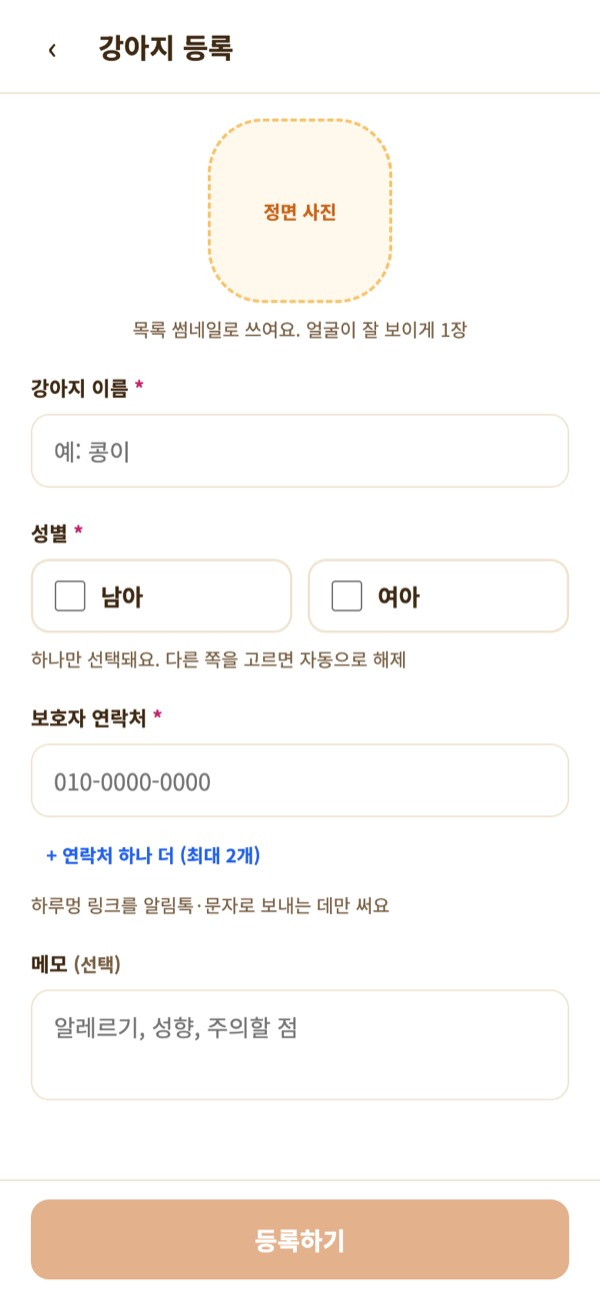
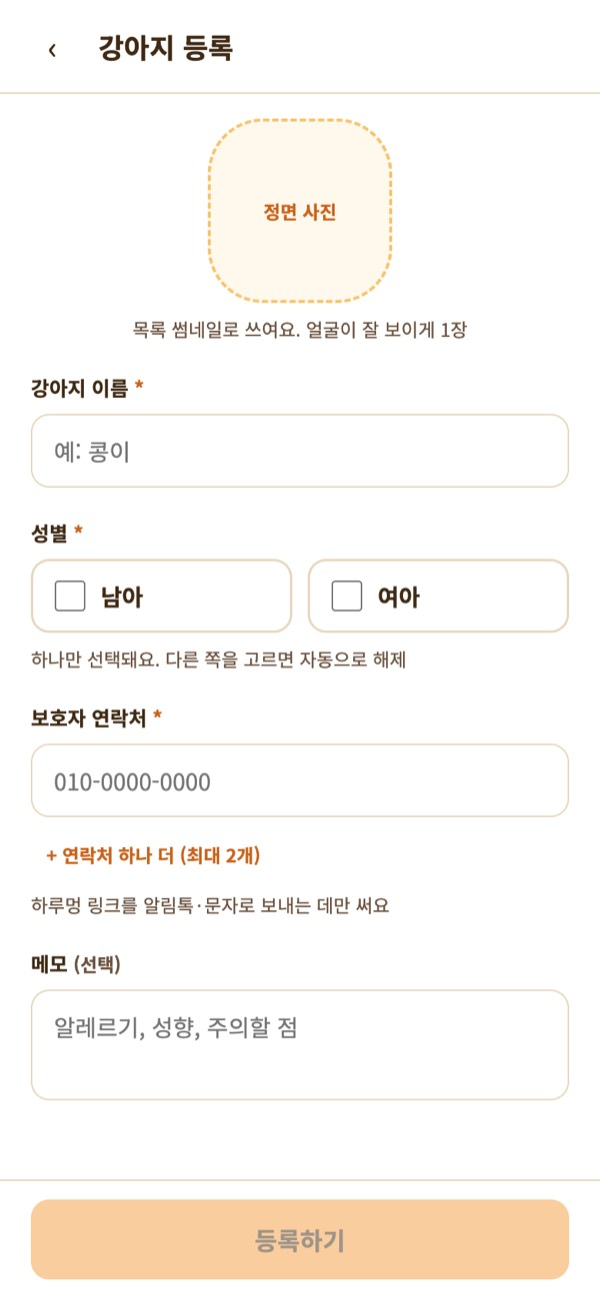
팔레트 정리: 버튼은 아이콘 주황+브라운 글자, 성별 색은 성별만(채도 완화), 상태는 주황/완료 브라운회색/위험 빨강으로 분리, 카드 테두리·보조 글자 대비 보강. 사용 안내 색 표현·그림 12장 갱신

Changed region(s): [[0.03, 0.9245, 0.96, 0.9861], [0.09, 0.6471, 0.45, 0.678]]

diff --git a/web/src/screens/Guide.tsx b/web/src/screens/Guide.tsx
@@ -59,7 +59,7 @@ export function GuideScreen() {
             ['아이폰', <>사파리 아래 가운데 공유 버튼(네모에 화살표) → 아래로 내려 <b>홈 화면에 추가</b> → 오른쪽 위 <b>추가</b></>],
             ['안드로이드', <>크롬 오른쪽 위 ⋮ 메뉴 → <b>홈 화면에 추가</b> 또는 <b>앱 설치</b></>],
           ]} />
-          <p>설치하면 홈 화면에 민트색 하루멍 아이콘이 생기고, 열면 주소창 없이 앱처럼 떠요. 아이폰은 사파리와 홈 화면 앱의 저장소가 따로라서, <b>설치한 뒤 앱 아이콘으로 열어서</b> 강아지를 등록하세요. 설치 전 사파리에서 넣은 내용은 앱으로 넘어오지 않아요. 앱에서 "유치원 코드가 없어요"가 보이면 설정에서 링크의 코드를 한 번 넣어 주세요.</p>
+          <p>설치하면 홈 화면에 노란 바탕의 강아지 아이콘이 생기고, 열면 주소창 없이 앱처럼 떠요. 아이폰은 사파리와 홈 화면 앱의 저장소가 따로라서, <b>설치한 뒤 앱 아이콘으로 열어서</b> 강아지를 등록하세요. 설치 전 사파리에서 넣은 내용은 앱으로 넘어오지 않아요. 앱에서 "유치원 코드가 없어요"가 보이면 설정에서 링크의 코드를 한 번 넣어 주세요.</p>
           <p><b>첫 화면은 오늘 폴더입니다.</b> 위에서부터 이렇게 읽으세요.</p>
           <ul>
             <li>촬영 · 미지정 · 미발송: 오늘 찍은 수, 강아지를 안 정한 사진 수, 안 보낸 사진이 있는 강아지 수</li>
@@ -91,7 +91,7 @@ export function GuideScreen() {
           <p>아침에 오늘 온 아이만 체크하면 카메라와 폴더에 그 아이들만 보입니다. 25마리 중 8마리만 왔으면 카메라에서 8마리만 고르면 돼요.</p>
           <ol>
             <li>오늘 폴더에서 <b>오늘 등원 체크</b> 카드를 누릅니다.</li>
-            <li>온 아이를 탭합니다. 탭하는 즉시 저장되고 민트 체크가 붙어요. 위 검색창으로 찾아도 됩니다.</li>
+            <li>온 아이를 탭합니다. 탭하는 즉시 저장되고 주황 체크가 붙어요. 위 검색창으로 찾아도 됩니다.</li>
             <li>아래 촬영 시작 (N마리) 버튼으로 바로 카메라로 가거나 <b>완료</b>로 돌아갑니다.</li>
           </ol>
           <Shot src="02-attendance" alt="등원 체크 화면" />
@@ -122,12 +122,12 @@ export function GuideScreen() {
 
         <Section id="session" title="5. 촬영 검수">
           <p>카메라에서 ✕를 누르면 방금 찍은 사진이 강아지별로 모여 떠요. 여기서 지울 것을 골라내고 저장해야 폴더에 들어갑니다. 평소엔 30초면 끝나요.</p>
-          <p><b>삭제 탭(기본).</b> 지울 사진만 탭하세요. 분홍 ✕가 붙고, 나머지는 전부 저장돼요. 강아지 한 번에 다 지우려면 줄 오른쪽 <b>전체 삭제</b>, 실수했으면 위 <b>전체 가져가기</b>. 사진을 길게 누르면 크게 보여요.</p>
+          <p><b>삭제 탭(기본).</b> 지울 사진만 탭하세요. 빨간 ✕가 붙고, 나머지는 전부 저장돼요. 강아지 한 번에 다 지우려면 줄 오른쪽 <b>전체 삭제</b>, 실수했으면 위 <b>전체 가져가기</b>. 사진을 길게 누르면 크게 보여요.</p>
           <Shot src="08-session-review" alt="촬영 검수 삭제 탭" />
-          <p><b>배정 탭.</b> 미지정 사진이 있으면 배정 탭에 분홍 숫자가 떠요.</p>
+          <p><b>배정 탭.</b> 미지정 사진이 있으면 배정 탭에 주황 숫자가 떠요.</p>
           <ol>
             <li>위 강아지 줄에서 한 마리를 고릅니다.</li>
-            <li>그 아이 사진을 탭합니다. 민트 테두리와 체크가 붙고, 사진 아래 이름이 바뀝니다. 다시 탭하면 떨어져요.</li>
+            <li>그 아이 사진을 탭합니다. 주황 테두리와 체크가 붙고, 사진 아래 이름이 바뀝니다. 다시 탭하면 떨어져요.</li>
             <li>다른 강아지를 고르고 같은 사진을 탭하면 둘 다 붙어요. 합사 사진은 이렇게.</li>
             <li><b>미지정만 N장</b>으로 미지정만 모아 보고, <b>미지정 전부 → 코코</b>로 한 번에 채울 수 있어요.</li>
           </ol>
@@ -148,9 +148,9 @@ export function GuideScreen() {
           <p>저장은 <b>덮어쓰기</b> 또는 <b>복사본으로 저장</b>. 영상 자르기는 영상 길이만큼 걸려요(10초 영상 = 10초). 그동안 화면을 끄지 마세요.</p>
           <Shot src="13-photo-editor" alt="사진 편집 화면" />
           <p><b>옮기기·삭제.</b> 오른쪽 위 <b>선택</b>을 누르면 체크 모드가 돼요. 사진을 고르고 아래 <b>옮기기·추가</b>로 다른 아이를 더하거나(여러 마리 체크 가능) 이 폴더에서 빼고, <b>삭제</b>로 지워요. 바로 반영됩니다.</p>
-          <p><b>미지정 사진.</b> 오늘 폴더의 분홍 카드를 누르면 강아지를 안 정한 사진이 모여 있어요. 골라서 <b>강아지 배정</b> → 여러 마리 체크 → <b>N마리에게 배정</b>. 안 쓸 사진은 삭제.</p>
+          <p><b>미지정 사진.</b> 오늘 폴더의 주황 테두리 "미지정 사진" 카드를 누르면 강아지를 안 정한 사진이 모여 있어요. 골라서 <b>강아지 배정</b> → 여러 마리 체크 → <b>N마리에게 배정</b>. 안 쓸 사진은 삭제.</p>
           <p><b>보낸 표시.</b> 보호자에게 보낸 사진에는 "1회 보냄"처럼 몇 번째 발송에 나갔는지 표시가 붙고, 폴더 위에 그날 발송 이력이 한 줄로 떠요.</p>
-          <p><b>검수 완료.</b> 폴더 맨 아래 <b>검수 완료</b>를 누르면 오늘 폴더로 돌아가고, 그 아이 이름 옆에 민트 체크가 붙어요. 그날 사진을 다 봤다는 표시이고, 보내기의 조건은 아니에요. 그 뒤에 사진이 더 들어오면 체크가 자동으로 풀려요. 다시 손보려면 <b>검수 다시 열기</b>.</p>
+          <p><b>검수 완료.</b> 폴더 맨 아래 <b>검수 완료</b>를 누르면 오늘 폴더로 돌아가고, 그 아이 이름 옆에 주황 체크가 붙어요. 그날 사진을 다 봤다는 표시이고, 보내기의 조건은 아니에요. 그 뒤에 사진이 더 들어오면 체크가 자동으로 풀려요. 다시 손보려면 <b>검수 다시 열기</b>.</p>
           <p><b>지난 날짜.</b> 폴더 위 날짜 줄의 ‹ ›로 어제, 그제 사진도 같은 방식으로 볼 수 있어요. 보내기 화면도 날짜를 옮길 수 있어서 어제 못 보낸 사진을 오늘 보낼 수 있습니다.</p>
         </Section>
 
@@ -189,7 +189,7 @@ export function GuideScreen() {
           <Shot src="19-settings" alt="설정 화면" />
           <p>안 보낸 사진과 미지정 사진은 절대 지우지 않아요. <b>보낸 사진 원본 지금 정리</b>로 바로 비울 수도 있고, 몇 개를 지워 얼마가 비는지 확인창에 떠요.</p>
           <p><b>삭제 기록 비우기.</b> 촬영 검수나 폴더에서 지운 사진의 빈 기록이 남아 있으면 이 버튼으로 완전히 지워요. 용량과는 거의 무관하고 목록 정리용이에요.</p>
-          <p><b>홈 화면 설치.</b> 설치 여부와 폰별 설치 순서가 떠요. 미설치면 분홍 경고가 보여요. 아래 <b>보호 요청</b>은 브라우저가 저장소를 임의로 지우지 않게 요청하는 버튼인데, 안드로이드 크롬에서만 동작하고 아이폰은 홈 화면 설치가 그 역할을 해요.</p>
+          <p><b>홈 화면 설치.</b> 설치 여부와 폰별 설치 순서가 떠요. 미설치면 빨간 경고가 보여요. 아래 <b>보호 요청</b>은 브라우저가 저장소를 임의로 지우지 않게 요청하는 버튼인데, 안드로이드 크롬에서만 동작하고 아이폰은 홈 화면 설치가 그 역할을 해요.</p>
           <p><b>유치원 코드.</b> 앱 정보에 있는 입력칸이에요. 받은 링크로 열었으면 자동으로 들어가 있고, 비어 있으면 링크의 <b>u=</b> 뒤 값을 넣고 <b>저장</b>. 어느 유치원에서 쓰는지 구분하는 용도라 한 번만 넣으면 돼요.</p>
           <p><b>전체 초기화</b>는 테스트 폰에서만 쓰세요. 강아지·사진·기록이 전부 지워지고 되돌릴 수 없어요.</p>
         </Section>

diff --git a/web/src/styles.css b/web/src/styles.css
@@ -3,19 +3,27 @@
 :root {
   --white: #ffffff;
   --surface: #fff8ec;
-  --line: #efe3cf;
+  --line: #e6d6bc;
   --text: #3f2a14;
-  --text-2: #7a6247;
+  --text-2: #6b5340;
+  /* 브랜드: 아이콘 주황(버튼 바탕, 브라운 글자) / 진한 주황(링크·작은 강조) / 허니(선택·슬라이더) / 크림 오렌지(연한 배경) */
+  --brand: #f39a3c;
   --mint: #c9641b;
   --mint-mid: #f6c46b;
   --mint-light: #ffe9cc;
-  --blue: #2563eb;
-  --blue-dark: #1d4ed8;
-  --blue-mid: #93c5fd;
-  --blue-light: #dbeafe;
-  --pink: #c2256d;
-  --pink-mid: #f9a8d4;
-  --pink-light: #fce7f3;
+  /* 상태: 완료(브라운 회색) / 위험(빨강). 진행은 브랜드 주황. */
+  --done: #8c7a64;
+  --done-light: #f0e9dd;
+  --danger: #d64545;
+  --danger-light: #fde8e8;
+  /* 성별만 쓴다. 상태·경고엔 쓰지 않는다. */
+  --blue: #4a7fc1;
+  --blue-dark: #3b6aa6;
+  --blue-mid: #9dbce4;
+  --blue-light: #e4eef9;
+  --pink: #d96a8a;
+  --pink-mid: #f1b3c3;
+  --pink-light: #fce9ee;
   --gray: #f6efe3;
   --overlay: rgba(63, 42, 20, 0.55);
   --r-card: 16px;
@@ -35,7 +43,7 @@ body {
 }
 button, input, textarea { font-family: inherit; font-size: inherit; color: inherit; }
 button { cursor: pointer; }
-a { color: var(--blue); text-decoration: none; }
+a { color: var(--mint); text-decoration: none; }
 
 /* 레이아웃 */
 .screen { min-height: 100%; display: flex; flex-direction: column; background: var(--white); }
@@ -56,8 +64,8 @@ a { color: var(--blue); text-decoration: none; }
 
 /* 구성 요소 */
 .btn {
-  min-height: 52px; border-radius: var(--r-control); border: 1.5px solid var(--mint);
-  background: var(--mint); color: var(--white); font-size: 16px; font-weight: 700;
+  min-height: 52px; border-radius: var(--r-control); border: 1.5px solid var(--brand);
+  background: var(--brand); color: var(--text); font-size: 16px; font-weight: 700;
   display: inline-flex; align-items: center; justify-content: center; gap: 8px; padding: 0 20px; width: 100%;
 }
 .btn:disabled { opacity: 0.5; cursor: default; }
@@ -69,7 +77,7 @@ a { color: var(--blue); text-decoration: none; }
   display: inline-flex; align-items: center; justify-content: center; font-size: 20px; color: var(--text);
 }
 .icon-btn--mint { background: var(--mint-light); color: var(--mint); border-radius: 14px; font-weight: 700; }
-.card { background: var(--white); border-radius: var(--r-card); border: 1px solid var(--line); padding: 14px; }
+.card { background: var(--white); border-radius: var(--r-card); border: 1px solid var(--line); padding: 14px; box-shadow: 0 1px 2px rgba(63, 42, 20, 0.04); }
 .card--on { border-color: var(--mint); background: var(--mint-light); }
 .check {
   width: 28px; height: 28px; border-radius: 14px; border: 2px solid var(--line); background: var(--white);
@@ -84,6 +92,9 @@ a { color: var(--blue); text-decoration: none; }
 }
 .badge--blue { background: var(--blue-light); color: var(--blue-dark); }
 .badge--pink { background: var(--pink-light); color: var(--pink); }
+.badge--orange { background: var(--mint-light); color: var(--mint); }
+.badge--done { background: var(--done-light); color: var(--done); }
+.badge--danger { background: var(--danger-light); color: var(--danger); }
 .badge--mint { background: var(--mint-light); color: var(--mint); }
 .badge--gray { background: var(--gray); color: var(--text-2); }
 .avatar {
@@ -101,7 +112,7 @@ a { color: var(--blue); text-decoration: none; }
 }
 textarea.input { height: 72px; padding: 12px 14px; resize: none; }
 .label { font-size: 13px; font-weight: 700; }
-.required { color: var(--pink); }
+.required { color: var(--mint); }
 .field { display: flex; flex-direction: column; gap: 8px; }
 .stats { display: grid; grid-template-columns: repeat(3, minmax(0, 1fr)); gap: 10px; }
 .stat { padding: 12px; border-radius: 14px; display: flex; flex-direction: column; gap: 2px; }
@@ -113,7 +124,7 @@ a.stat { color: inherit; }
   position: relative; aspect-ratio: 1; border-radius: 10px; overflow: hidden; background: var(--line); border: 0; padding: 0;
 }
 .cell img, .cell video { width: 100%; height: 100%; object-fit: cover; display: block; }
-.cell--deleted { opacity: 0.6; outline: 2px solid var(--pink); outline-offset: -2px; }
+.cell--deleted { opacity: 0.6; outline: 2px solid var(--danger); outline-offset: -2px; }
 .cell__dur {
   position: absolute; left: 4px; bottom: 4px; background: rgba(17, 24, 39, 0.7); color: var(--white);
   font-size: 10px; font-weight: 700; border-radius: 6px; padding: 1px 5px;
@@ -129,10 +140,10 @@ a.stat { color: inherit; }
   position: absolute; left: 0; right: 0; bottom: 0; padding: 2px 4px; font-size: 10px; font-weight: 700; color: var(--white);
   background: linear-gradient(transparent, rgba(17, 24, 39, 0.75)); text-align: left; white-space: nowrap; overflow: hidden; text-overflow: ellipsis;
 }
-.cell__names--none { color: var(--pink-mid); }
+.cell__names--none { color: var(--mint-mid); }
 .cell__del {
   position: absolute; right: 4px; top: 4px; width: 22px; height: 22px; border-radius: 11px;
-  background: var(--pink); color: var(--white); display: flex; align-items: center; justify-content: center; font-size: 11px; font-weight: 700;
+  background: var(--danger); color: var(--white); display: flex; align-items: center; justify-content: center; font-size: 11px; font-weight: 700;
 }
 .sexbox {
   flex: 1; height: 48px; border-radius: var(--r-control); border: 1.5px solid var(--line); background: var(--white);
@@ -188,7 +199,7 @@ a.stat { color: inherit; }
 .cam__rec-time { font-variant-numeric: tabular-nums; font-size: 18px; }
 .cam__rec-max { font-size: 12px; color: #d1d5db; font-weight: 500; }
 .cam__rec-bar { width: 64px; height: 4px; border-radius: 2px; background: rgba(255, 255, 255, 0.25); overflow: hidden; }
-.cam__rec-bar span { display: block; height: 100%; background: var(--pink-mid); transition: width 200ms linear; }
+.cam__rec-bar span { display: block; height: 100%; background: #ef4444; transition: width 200ms linear; }
 
 /* 하단 패널 */
 .cam__bottom {
@@ -285,7 +296,7 @@ a.stat { color: inherit; }
 .viewer__nav--l { left: 6px; }
 .viewer__nav--r { right: 6px; }
 .cell__ring { position: absolute; right: 4px; top: 4px; width: 22px; height: 22px; border-radius: 11px; border: 2px solid rgba(255, 255, 255, 0.9); background: rgba(0, 0, 0, 0.25); }
-.cell__tag--sent { background: var(--mint); }
+.cell__tag--sent { background: var(--done); }
 .history { display: flex; flex-direction: column; gap: 6px; padding: 8px 10px; border-radius: 12px; background: var(--surface); }
 .history__head { display: flex; align-items: center; gap: 8px; font-size: 13px; }
 .cell__tag { position: absolute; left: 4px; top: 4px; background: rgba(17, 24, 39, 0.7); color: var(--white); font-size: 10px; font-weight: 700; border-radius: 6px; padding: 1px 5px; }
@@ -335,7 +346,7 @@ a.stat { color: inherit; }
 .seg { display: flex; height: 36px; padding: 3px; border-radius: 18px; background: var(--gray); gap: 2px; }
 .seg button { border: 0; background: transparent; color: var(--text-2); font-size: 13px; font-weight: 700; padding: 0 12px; border-radius: 15px; display: inline-flex; align-items: center; gap: 4px; }
 .seg button.on { background: var(--white); color: var(--text); box-shadow: 0 1px 2px rgba(0, 0, 0, 0.08); }
-.seg__dot { min-width: 18px; height: 18px; padding: 0 5px; border-radius: 9px; background: var(--pink); color: var(--white); font-size: 11px; display: inline-flex; align-items: center; justify-content: center; }
+.seg__dot { min-width: 18px; height: 18px; padding: 0 5px; border-radius: 9px; background: var(--brand); color: var(--text); font-size: 11px; display: inline-flex; align-items: center; justify-content: center; }
 .assign-head { position: sticky; top: 56px; z-index: 4; background: var(--white); border-bottom: 1px solid var(--line); padding: 10px 0; display: flex; flex-direction: column; gap: 10px; }
 .dogstrip { display: flex; gap: 12px; padding: 0 20px; overflow-x: auto; scrollbar-width: none; }
 .dogstrip::-webkit-scrollbar { display: none; }

diff --git a/web/src/screens/FolderReview.tsx b/web/src/screens/FolderReview.tsx
@@ -162,7 +162,7 @@ export function FolderReviewScreen() {
         {!isUnassigned ? <DateNav date={date} onChange={setDate} compact /> : null}
         {logs.length > 0 ? (
           <div className="card card--row" style={{ padding: '10px 14px' }}>
-            <span className="badge badge--mint">{logs.length}회 보냄</span>
+            <span className="badge badge--done">{logs.length}회 보냄</span>
             <span className="sub" style={{ flex: 1 }}>
               {logs.map((l, i) => `${i + 1}번째 ${new Date(l.sentAt).toTimeString().slice(0, 5)} (${l.mediaCount}개)`).join(' · ')}
             </span>
@@ -177,10 +177,10 @@ export function FolderReviewScreen() {
           <span className="sub">{isUnassigned ? '사진을 고른 뒤 아래에서 강아지를 정하세요' : selecting ? '사진을 고르면 다른 아이 추가·폴더에서 빼기·삭제를 할 수 있어요' : '탭하면 크게 보여요. 오른쪽 위 선택으로 옮기기·삭제'} · {items.length}개</span>
         )}
         {reviewed ? (
-          <div className="card card--row" style={{ borderColor: 'var(--mint)', background: 'var(--mint-light)', color: 'var(--mint)' }}>
-            <span className="check check--on">✓</span>
+          <div className="card card--row" style={{ borderColor: 'var(--done)', background: 'var(--done-light)', color: 'var(--done)' }}>
+            <span className="check check--on" style={{ background: 'var(--done)', borderColor: 'var(--done)' }}>✓</span>
             <span style={{ flex: 1, fontWeight: 700 }}>오늘 사진 검수 완료</span>
-            {date === today ? <span className="sub" style={{ color: 'var(--mint)' }}>새 사진이 들어오면 풀려요</span> : null}
+            {date === today ? <span className="sub" style={{ color: 'var(--done)' }}>새 사진이 들어오면 풀려요</span> : null}
           </div>
         ) : null}
         <div className="grid3">
@@ -198,7 +198,7 @@ export function FolderReviewScreen() {
             <button type="button" className="btn" style={{ flex: 1.6 }} disabled={busy} onClick={() => setSheet(true)}>
               {isUnassigned ? `강아지 배정 (${selected.size})` : `옮기기·추가 (${selected.size})`}
             </button>
-            <button type="button" className="btn btn--outline" style={{ flex: 1, borderColor: 'var(--pink)', color: 'var(--pink)' }} disabled={busy} onClick={remove}>
+            <button type="button" className="btn btn--outline" style={{ flex: 1, borderColor: 'var(--danger)', color: 'var(--danger)' }} disabled={busy} onClick={remove}>
               삭제 ({selected.size})
             </button>
           </div>
@@ -262,7 +262,7 @@ function AssignSheet({ dogs, folderDog, count, busy, onPick, onRemove, onClose }
         <div className="title">{count}장을 누구에게?</div>
         <span className="sub">여러 마리 체크하면 합사 사진으로 모두에게 들어가요</span>
         {folderDog ? (
-          <button type="button" className="btn btn--ghost" disabled={busy} onClick={onRemove} style={{ color: 'var(--pink)' }}>
+          <button type="button" className="btn btn--ghost" disabled={busy} onClick={onRemove} style={{ color: 'var(--danger)' }}>
             {folderDog.name} 폴더에서 빼기 (미지정으로)
           </button>
         ) : null}

diff --git a/web/src/screens/Settings.tsx b/web/src/screens/Settings.tsx
@@ -102,7 +102,7 @@ export function SettingsScreen() {
           <span className="sub">열기 ›</span>
         </Link>
         <Link to="/feedback?from=settings" className="card card--row" style={{ color: 'inherit' }} onClick={() => track('feedback_opened', { from: 'settings' })}>
-          <span style={{ width: 40, height: 40, borderRadius: 12, background: 'var(--blue-light)', display: 'flex', alignItems: 'center', justifyContent: 'center', fontSize: 20, flex: '0 0 auto' }}>💬</span>
+          <span style={{ width: 40, height: 40, borderRadius: 12, background: 'var(--mint-light)', display: 'flex', alignItems: 'center', justifyContent: 'center', fontSize: 20, flex: '0 0 auto' }}>💬</span>
           <span style={{ flex: 1, display: 'flex', flexDirection: 'column', gap: 3 }}>
             <span className="title">피드백 보내기</span>
             <span className="sub">오류·불편·제안을 사진과 함께{listSentFeedback().length ? ` · 보낸 피드백 ${listSentFeedback().length}건` : ''}</span>
@@ -154,7 +154,7 @@ export function SettingsScreen() {
         </section>
 
         <section className="card" style={{ display: 'flex', flexDirection: 'column', gap: 10 }}>
-          <div className="title">홈 화면 설치 {standalone ? <span className="badge badge--mint">설치됨</span> : <span className="badge badge--pink">미설치</span>}</div>
+          <div className="title">홈 화면 설치 {standalone ? <span className="badge badge--mint">설치됨</span> : <span className="badge badge--danger">미설치</span>}</div>
           {standalone ? (
             <span className="sub">앱으로 실행 중이에요. 브라우저가 사진을 임의로 지우지 않아요.</span>
           ) : isIOS ? (
@@ -169,7 +169,7 @@ export function SettingsScreen() {
               <li><b>홈 화면에 추가</b> 또는 <b>앱 설치</b>를 누르세요</li>
             </ol>
           )}
-          {!standalone ? <span className="sub" style={{ color: 'var(--pink)' }}>설치하지 않고 브라우저 탭으로만 쓰면 7일 동안 안 열었을 때 사진이 지워질 수 있어요.</span> : null}
+          {!standalone ? <span className="sub" style={{ color: 'var(--danger)' }}>설치하지 않고 브라우저 탭으로만 쓰면 7일 동안 안 열었을 때 사진이 지워질 수 있어요.</span> : null}
           <div style={{ display: 'flex', alignItems: 'center', gap: 8 }}>
             <span className="sub" style={{ flex: 1 }}>저장소 보호: {persisted === true ? '켜짐' : persisted === false ? '꺼짐' : '브라우저 미지원'}</span>
             {persisted !== true ? <button type="button" className="btn btn--small btn--outline" onClick={persist}>보호 요청</button> : null}
@@ -193,7 +193,7 @@ export function SettingsScreen() {
               <tr><td>데이터 위치</td><td></td><td>이 폰 안에만</td></tr>
             </tbody>
           </table>
-          <button type="button" className="btn btn--ghost" style={{ color: 'var(--pink)' }} onClick={wipe}>전체 초기화 (테스트용)</button>
+          <button type="button" className="btn btn--ghost" style={{ color: 'var(--danger)' }} onClick={wipe}>전체 초기화 (테스트용)</button>
         </section>
 
         {msg ? <span className="sub">{msg}</span> : null}

diff --git a/web/src/screens/Folders.tsx b/web/src/screens/Folders.tsx
@@ -53,8 +53,8 @@ export function FoldersScreen() {
         </div>
         <div className="stats">
           <div className="stat" style={{ background: 'var(--surface)' }}><span className="sub">촬영</span><b>{total}</b></div>
-          <div className="stat" style={{ background: 'var(--pink-light)', color: 'var(--pink)' }}><span style={{ fontSize: 12 }}>미지정</span><b>{unassigned}</b></div>
-          <Link to={`/send?d=${date}`} className="stat" style={{ background: 'var(--blue-light)', color: 'var(--blue-dark)' }}><span style={{ fontSize: 12 }}>미발송 →</span><b>{perDog.filter((f) => f.unsent > 0).length}</b></Link>
+          <div className="stat" style={{ background: 'var(--mint-light)', color: 'var(--mint)' }}><span style={{ fontSize: 12 }}>미지정</span><b>{unassigned}</b></div>
+          <Link to={`/send?d=${date}`} className="stat" style={{ background: 'var(--brand)', color: 'var(--text)' }}><span style={{ fontSize: 12 }}>미발송 →</span><b>{perDog.filter((f) => f.unsent > 0).length}</b></Link>
         </div>
         <DateNav date={date} onChange={setDate} />
         <SearchBox value={query} onChange={(q) => { if (q.trim().length === 1 && !query.trim()) track('search_used', { screen: 'folders' }); setQuery(q); }} />
@@ -79,12 +79,12 @@ export function FoldersScreen() {
           <Chip label={hasAttendance ? '수정' : '체크하기'} tone="mint" />
         </Link>
         {unassigned > 0 && !query ? (
-          <Link to={`/folders/unassigned?d=${date}`} className="card card--row" style={{ borderColor: 'var(--pink-mid)', borderWidth: 1.5, color: 'inherit' }}>
+          <Link to={`/folders/unassigned?d=${date}`} className="card card--row" style={{ borderColor: 'var(--mint-mid)', borderWidth: 1.5, color: 'inherit' }}>
             <span style={{ flex: 1, display: 'flex', flexDirection: 'column', gap: 3 }}>
               <span className="title">미지정 사진 {unassigned}장</span>
               <span className="sub">강아지를 정하거나 지워 주세요</span>
             </span>
-            <Chip label="배정하기" tone="pink" />
+            <Chip label="배정하기" tone="orange" />
           </Link>
         ) : null}
         {perDog.length === 0 ? (
@@ -120,7 +120,7 @@ export function FoldersScreen() {
             </span>
             <Chip
               label={f.count === 0 ? '촬영 중' : f.unsent === 0 ? `${f.sendCount}회 보냄` : f.sendCount > 0 ? `미발송 ${f.unsent} · ${f.sendCount}회 보냄` : f.reviewed ? '검수 완료' : '검수 전'}
-              tone={f.count === 0 ? 'gray' : f.unsent === 0 ? 'mint' : f.reviewed ? 'blue' : 'pink'}
+              tone={f.count === 0 ? 'gray' : f.unsent === 0 ? 'done' : 'orange'}
             />
           </button>
         ))}

diff --git a/web/src/screens/Send.tsx b/web/src/screens/Send.tsx
@@ -210,7 +210,7 @@ function SendCard({ dog, date, reviewed, logs, compressPhoto, compressVideo, onU
           <span style={{ display: 'flex', alignItems: 'center', gap: 6, flexWrap: 'wrap' }}>
             <span className="title">{dog.name}</span>
             <SexBadge sex={dog.sex} />
-            {logs.length > 0 ? <span className="badge badge--mint">{logs.length}회 보냄</span> : null}
+            {logs.length > 0 ? <span className="badge badge--done">{logs.length}회 보냄</span> : null}
             {!reviewed && items.length > 0 ? <span className="badge badge--gray">검수 전</span> : null}
           </span>
           <span className="sub">
@@ -234,8 +234,8 @@ function SendCard({ dog, date, reviewed, logs, compressPhoto, compressVideo, onU
       {videos.length > 0 ? <MediaLine label="영상" count={videos.length} unit="개" items={videos} onOpen={openFolder} /> : null}
       {target.length === 0 && items.length > 0 ? <span className="sub">오늘 사진은 모두 보냈어요</span> : null}
       {items.length === 0 ? <span className="sub">저장된 사진이 없어요</span> : null}
-      {items.length > 0 && items.some((m) => !m.blob) ? <span className="sub" style={{ color: 'var(--pink)' }}>원본이 정리된 사진은 보낼 수 없어요</span> : null}
-      {ready && !supported ? <span className="sub" style={{ color: 'var(--pink)' }}>이 브라우저는 파일 공유를 지원하지 않아요. 누르면 파일로 내려받아요.</span> : null}
+      {items.length > 0 && items.some((m) => !m.blob) ? <span className="sub" style={{ color: 'var(--danger)' }}>원본이 정리된 사진은 보낼 수 없어요</span> : null}
+      {ready && !supported ? <span className="sub" style={{ color: 'var(--danger)' }}>이 브라우저는 파일 공유를 지원하지 않아요. 누르면 파일로 내려받아요.</span> : null}
 
       {logs.length > 0 && items.some((m) => m.blob) ? (
         <label className="sexbox" style={{ height: 40, fontSize: 13, fontWeight: 500 }}>
@@ -269,7 +269,7 @@ function HistoryRow({ n, log, items }: { n: number; log: SendLog; items: MediaIt
   return (
     <div className="history">
       <div className="history__head">
-        <span className="badge badge--mint">{n}번째</span>
+        <span className="badge badge--done">{n}번째</span>
         <b>{timeLabel(log.sentAt)}</b>
         <span className="sub">사진 {log.photoCount}장{log.videoCount ? ` · 영상 ${log.videoCount}개` : ''}</span>
       </div>

diff --git a/web/src/screens/DogForm.tsx b/web/src/screens/DogForm.tsx
@@ -128,7 +128,7 @@ export function DogFormScreen() {
             <button
               type="button"
               className="btn btn--ghost btn--small"
-              style={{ color: 'var(--pink)', borderColor: 'var(--pink-mid)' }}
+              style={{ color: 'var(--danger)', borderColor: 'var(--danger-light)' }}
               onClick={clearPhoto}
             >
               사진 지우기
@@ -178,7 +178,7 @@ export function DogFormScreen() {
           {showPhone2 ? (
             <input className="input" type="tel" inputMode="tel" value={phone2} onChange={(e) => setPhone2(e.target.value)} placeholder="두 번째 연락처" />
           ) : (
-            <button type="button" className="btn btn--ghost btn--small" style={{ alignSelf: 'flex-start', border: 0, color: 'var(--blue)', fontWeight: 700 }} onClick={() => setShowPhone2(true)}>+ 연락처 하나 더 (최대 2개)</button>
+            <button type="button" className="btn btn--ghost btn--small" style={{ alignSelf: 'flex-start', border: 0, color: 'var(--mint)', fontWeight: 700 }} onClick={() => setShowPhone2(true)}>+ 연락처 하나 더 (최대 2개)</button>
           )}
           <span className="sub">하루멍 링크를 알림톡·문자로 보내는 데만 써요</span>
         </div>
@@ -190,7 +190,7 @@ export function DogFormScreen() {
       </main>
       {editing ? (
         <div className="body" style={{ paddingTop: 0, gap: 8 }}>
-          <button type="button" className="btn btn--ghost" style={{ color: 'var(--pink)' }} onClick={retire}>퇴원 처리 (목록에서 숨김)</button>
+          <button type="button" className="btn btn--ghost" style={{ color: 'var(--danger)' }} onClick={retire}>퇴원 처리 (목록에서 숨김)</button>
           <button type="button" className="btn btn--ghost btn--small" style={{ alignSelf: 'center', color: 'var(--text-2)' }} onClick={remove}>완전 삭제 (사진이 없을 때만)</button>
         </div>
       ) : null}

diff --git a/web/src/screens/SessionReview.tsx b/web/src/screens/SessionReview.tsx
@@ -128,7 +128,7 @@ export function SessionReviewScreen() {
                 <div style={{ display: 'flex', alignItems: 'center', gap: 8 }}>
                   {s.dog ? <DogAvatar name={s.dog.name} sex={s.dog.sex} thumb={s.dog.thumbBlob} size={32} /> : <span className="avatar" style={{ width: 32, height: 32, borderRadius: 10, background: 'var(--gray)' }} />}
                   <span className="title">{s.dog?.name ?? '미지정'}</span>
-                  <span className="sub" style={{ flex: 1, color: s.dog ? undefined : 'var(--pink)', fontWeight: s.dog ? 400 : 700 }}>
+                  <span className="sub" style={{ flex: 1, color: s.dog ? undefined : 'var(--mint)', fontWeight: s.dog ? 400 : 700 }}>
                     {s.media.length}개 · 삭제 {s.media.filter((m) => deleted.has(m.id)).length}
                   </span>
                   {s.dog ? (
@@ -189,7 +189,7 @@ export function SessionReviewScreen() {
       <footer className="footer footer--surface">
         <div style={{ display: 'flex', justifyContent: 'space-between', fontSize: 14 }}>
           <b>
-            가져가기 {items.length - deleted.size}개 · <span style={{ color: 'var(--pink)' }}>삭제 {deleted.size}개</span>
+            가져가기 {items.length - deleted.size}개 · <span style={{ color: 'var(--danger)' }}>삭제 {deleted.size}개</span>
             {unassignedCount > 0 ? <span style={{ color: 'var(--text-2)', fontWeight: 500 }}> · 미지정 {unassignedCount}</span> : null}
           </b>
           <span className="sub">{Object.keys(assign).length > 0 ? `배정 변경 ${Object.keys(assign).length}장` : '삭제는 되돌릴 수 없어요'}</span>

diff --git a/web/src/components/ui.tsx b/web/src/components/ui.tsx
@@ -6,7 +6,7 @@ export function SexBadge({ sex }: { sex: Sex }) {
   return <span className={`badge ${sex === 'MALE' ? 'badge--blue' : 'badge--pink'}`}>{sex === 'MALE' ? '남아' : '여아'}</span>;
 }
 
-export function Chip({ label, tone = 'gray' }: { label: string; tone?: 'gray' | 'mint' | 'blue' | 'pink' }) {
+export function Chip({ label, tone = 'gray' }: { label: string; tone?: 'gray' | 'mint' | 'blue' | 'pink' | 'orange' | 'done' | 'danger' }) {
   return <span className={`badge badge--${tone}`}>{label}</span>;
 }
 
